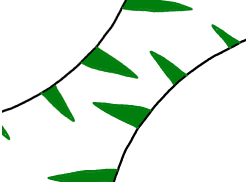
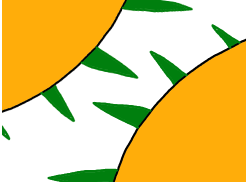
Balance changes and animation on Demons Roots

diff --git a/src/main/java/florademon/actions/DemonsRootsAction.java b/src/main/java/florademon/actions/DemonsRootsAction.java
@@ -1,0 +1,118 @@
+package florademon.actions;
+
+import basemod.ReflectionHacks;
+import basemod.helpers.VfxBuilder;
+import com.badlogic.gdx.graphics.Texture;
+import com.megacrit.cardcrawl.actions.AbstractGameAction;
+import com.megacrit.cardcrawl.actions.animations.VFXAction;
+import com.megacrit.cardcrawl.actions.common.DamageAllEnemiesAction;
+import com.megacrit.cardcrawl.cards.DamageInfo;
+import com.megacrit.cardcrawl.characters.AbstractPlayer;
+import com.megacrit.cardcrawl.dungeons.AbstractDungeon;
+import com.megacrit.cardcrawl.monsters.AbstractMonster;
+import com.megacrit.cardcrawl.vfx.AbstractGameEffect;
+import com.megacrit.cardcrawl.vfx.combat.CleaveEffect;
+import florademon.cards.DemonsRoots;
+import static florademon.FloraDemonMod.vfxPath;
+
+import java.util.ArrayList;
+import java.util.Collections;
+
+public class DemonsRootsAction extends AbstractGameAction {
+    AbstractPlayer p;
+    AbstractMonster m;
+    DemonsRoots thisCard;
+
+    public static ArrayList<Texture> attackSprites;
+
+    public static ArrayList<Texture> originSprites;
+
+    public DemonsRootsAction(DemonsRoots card, AbstractPlayer p, AbstractMonster m){
+        thisCard = card;
+        this.p = p;
+        this.m = m;
+    }
+    @Override
+    public void update() {
+        /*
+        addToBot(new DamageAllEnemiesAction(p, thisCard.multiDamage, DamageInfo.DamageType.NORMAL, AbstractGameAction.AttackEffect.SLASH_HORIZONTAL));
+        addToBot(new DamageAllEnemiesAction(p, thisCard.multiDamage, DamageInfo.DamageType.NORMAL, AbstractGameAction.AttackEffect.SLASH_VERTICAL));
+        addToBot(new DamageAllEnemiesAction(p, thisCard.multiDamage, DamageInfo.DamageType.NORMAL, AbstractGameAction.AttackEffect.SLASH_HEAVY));
+        if (thisCard.originRoots){
+            addToBot(new DamageAllEnemiesAction(p, thisCard.multiDamage, DamageInfo.DamageType.NORMAL, AbstractGameAction.AttackEffect.SLASH_HEAVY));
+        }
+        */
+
+        float[] coordinates = getAverageMonsterCoordinates();//TODO: Fix the jank as hell implementation here and make this an actual VFX
+        ArrayList<Texture> spritesToUse = attackSprites;
+        int attackInterval = 8;
+        if (thisCard.originRoots){
+            spritesToUse = originSprites;
+            attackInterval = 9;
+        }
+        for (int i = 0; i < spritesToUse.size(); i++){
+            Texture currentTexture = spritesToUse.get(i);
+            AbstractGameEffect currentEffect;
+            if (i%attackInterval == attackInterval-3) {
+                currentEffect = new VfxBuilder(currentTexture, coordinates[0], coordinates[1] + 100, 0.05f).playSoundAt(0F, "ATTACK_HEAVY").build();
+                DamageAllEnemiesAction damage = new DamageAllEnemiesAction(p, thisCard.multiDamage, DamageInfo.DamageType.NORMAL, AbstractGameAction.AttackEffect.NONE, true);
+                ReflectionHacks.setPrivate(damage, AbstractGameAction.class, "duration", 0);
+                addToTop(damage);
+            } else {
+                currentEffect = new VfxBuilder(currentTexture, coordinates[0], coordinates[1] + 100, 0.05f).build();
+            }
+            this.addToTop(new VFXAction(this.p, currentEffect, 0.0F));
+        }
+        this.isDone = true;
+    }
+
+    public static ArrayList<Texture> getAttackSprites(){
+        ArrayList<Texture> output = new ArrayList<Texture>();
+        for (int i = 0; i <= 22; i++){
+            String fileName = "DemonsRoots/tile0";
+            if (i < 10){
+                fileName += "0";
+            }
+            fileName += i + ".png";
+            output.add(new Texture(vfxPath(fileName)));
+        }
+        Collections.reverse(output);
+
+        return output;
+    }
+
+    public static ArrayList<Texture> getOriginSprites(){
+        ArrayList<Texture> output = new ArrayList<Texture>();
+        for (int i = 0; i <= 33; i++){
+            String fileName = "OriginRoots/tile0";
+            if (i < 10){
+                fileName += "0";
+            }
+            fileName += i + ".png";
+            output.add(new Texture(vfxPath(fileName)));
+        }
+        Collections.reverse(output);
+
+        return output;
+    }
+
+    public float[] getAverageMonsterCoordinates(){
+        float[] output = {0, 0};
+        for (AbstractMonster currentMonster : AbstractDungeon.getMonsters().monsters){
+            output[0] += currentMonster.drawX;
+            output[1] += currentMonster.drawY;
+        }
+        int numMonsters = AbstractDungeon.getMonsters().monsters.size();
+        if (numMonsters == 0){
+            return output;
+        }
+        output[0] /= numMonsters;
+        output[1] /= numMonsters;
+        return output;
+    }
+
+    static {
+        attackSprites = getAttackSprites();
+        originSprites = getOriginSprites();
+    }
+}

diff --git a/src/main/java/florademon/cards/DemonsRoots.java b/src/main/java/florademon/cards/DemonsRoots.java
@@ -12,6 +12,7 @@ import com.megacrit.cardcrawl.localization.CardStrings;
 import com.megacrit.cardcrawl.monsters.AbstractMonster;
 import com.megacrit.cardcrawl.powers.ThornsPower;
 import com.megacrit.cardcrawl.rooms.AbstractRoom;
+import florademon.actions.DemonsRootsAction;
 import florademon.character.FloraDemonCharacter;
 import florademon.powers.ApostleFormPower;
 import florademon.powers.LoseThornsPower;
@@ -33,7 +34,7 @@ public class DemonsRoots extends BaseCard {
 
     private static final CardStrings cardStrings;
 
-    private boolean originRoots;
+    public boolean originRoots;
 
     private static final CardStats info = new CardStats(
             FloraDemonCharacter.Enums.CARD_COLOR, //The card color. If you're making your own character, it'll look something like this. Otherwise, it'll be CardColor.RED or something similar for a basegame character color.
@@ -53,6 +54,7 @@ public class DemonsRoots extends BaseCard {
         if (CardCrawlGame.isInARun() && AbstractDungeon.player.hasPower(ApostleFormPower.POWER_ID) && AbstractDungeon.getCurrRoom().phase == AbstractRoom.RoomPhase.COMBAT){
             this.turnIntoOriginRoots();
         }
+        DemonsRootsAction preload = new DemonsRootsAction(this, null, null);
     }
 
     public void turnIntoOriginRoots(){
@@ -92,12 +94,7 @@ public class DemonsRoots extends BaseCard {
 
     @Override
     public void use(AbstractPlayer p, AbstractMonster m) {
-        addToBot(new DamageAllEnemiesAction(p, this.multiDamage, DamageInfo.DamageType.NORMAL, AbstractGameAction.AttackEffect.SLASH_HORIZONTAL));
-        addToBot(new DamageAllEnemiesAction(p, this.multiDamage, DamageInfo.DamageType.NORMAL, AbstractGameAction.AttackEffect.SLASH_VERTICAL));
-        addToBot(new DamageAllEnemiesAction(p, this.multiDamage, DamageInfo.DamageType.NORMAL, AbstractGameAction.AttackEffect.SLASH_HEAVY));
-        if (originRoots){
-            addToBot(new DamageAllEnemiesAction(p, this.multiDamage, DamageInfo.DamageType.NORMAL, AbstractGameAction.AttackEffect.SLASH_HEAVY));
-        }
+        addToTop(new DemonsRootsAction(this, p, m));
     }
 
     static {

diff --git a/src/main/java/florademon/cards/SeedsOfTheFuture.java b/src/main/java/florademon/cards/SeedsOfTheFuture.java
@@ -1,6 +1,7 @@
 package florademon.cards;
 
 import basemod.patches.com.megacrit.cardcrawl.cards.AbstractCard.MultiCardPreview;
+import com.megacrit.cardcrawl.actions.common.MakeTempCardInDiscardAction;
 import com.megacrit.cardcrawl.actions.common.MakeTempCardInDrawPileAction;
 import com.megacrit.cardcrawl.actions.watcher.ChooseOneAction;
 import com.megacrit.cardcrawl.cards.AbstractCard;
@@ -30,7 +31,7 @@ public class SeedsOfTheFuture extends BaseCard {
             CardType.SKILL, //The type. ATTACK/SKILL/POWER/CURSE/STATUS
             CardRarity.RARE, //Rarity. BASIC is for starting cards, then there's COMMON/UNCOMMON/RARE, and then SPECIAL and CURSE. SPECIAL is for cards you only get from events. Curse is for curses, except for special curses like Curse of the Bell and Necronomicurse.
             CardTarget.SELF, //The target. Single target is ENEMY, all enemies is ALL_ENEMY. Look at cards similar to what you want to see what to use.
-            1 //The card's base cost. -1 is X cost, -2 is no cost for unplayable cards like curses, or Reflex.
+            2 //The card's base cost. -1 is X cost, -2 is no cost for unplayable cards like curses, or Reflex.
     );
 
     public SeedsOfTheFuture() {
@@ -45,7 +46,7 @@ public class SeedsOfTheFuture extends BaseCard {
         Consumer<AbstractCard> callBack = (c) -> {
             ArrayList<AbstractCard> seedsToShuffle = getSeeds(c);
             seedsToShuffle.forEach((thisSeed) -> {
-                this.addToBot(new MakeTempCardInDrawPileAction(thisSeed, 1, true, true));
+                this.addToBot(new MakeTempCardInDiscardAction(thisSeed, 1));
             });
         };
         addToBot(new FlexibleDiscoveryAction(seedChoices,callBack, false));

diff --git a/src/main/java/florademon/cards/Gardenwork.java b/src/main/java/florademon/cards/Gardenwork.java
@@ -1,5 +1,6 @@
 package florademon.cards;
 
+import com.megacrit.cardcrawl.actions.defect.ChannelAction;
 import com.megacrit.cardcrawl.actions.watcher.ChooseOneAction;
 import com.megacrit.cardcrawl.cards.AbstractCard;
 import com.megacrit.cardcrawl.characters.AbstractPlayer;
@@ -10,6 +11,8 @@ import florademon.cards.special.GrowIvy;
 import florademon.cards.special.GrowLily;
 import florademon.cards.special.GrowThistle;
 import florademon.character.FloraDemonCharacter;
+import florademon.orbs.BladedLily;
+import florademon.orbs.HardyDandelion;
 import florademon.util.CardStats;
 
 import java.util.ArrayList;
@@ -46,15 +49,8 @@ public class Gardenwork extends BaseCard {
 
     @Override
     public void use(AbstractPlayer p, AbstractMonster m) {
-        ArrayList<AbstractCard> plantChoices;
-        for (int i = 0; i < magicNumber; i++){
-            plantChoices = new ArrayList<AbstractCard>();
-            plantChoices.add(new GrowLily());
-            plantChoices.add(new GrowDandelion());
-            plantChoices.add(new GrowIvy());
-            plantChoices.add(new GrowThistle());
-            addToBot(new ChooseOneAction(plantChoices));
-        }
+        addToBot(new ChannelAction(new HardyDandelion()));
+        addToBot(new ChannelAction(new BladedLily()));
         addToBot(new BloomAction());
     }
 }

diff --git a/src/main/java/florademon/cards/SnowMoonFlowers.java b/src/main/java/florademon/cards/SnowMoonFlowers.java
@@ -17,8 +17,8 @@ import florademon.util.CardStats;
 public class SnowMoonFlowers extends BaseCard {
     public static final String ID = makeID(SnowMoonFlowers.class.getSimpleName());
 
-    private static final int DAMAGE = 10;
-    private static final int UPG_DAMAGE = 0;
+    private static final int DAMAGE = 9;
+    private static final int UPG_DAMAGE = 4;
     private static final int BLOCK = 5;
     private static final int UPG_BLOCK = 2;
     private static final int MAGIC = 99;
@@ -37,13 +37,12 @@ public class SnowMoonFlowers extends BaseCard {
         this.isMultiDamage = true;
         setDamage(DAMAGE, UPG_DAMAGE); //Sets the card's damage and how much it changes when upgraded.
         setMagic(MAGIC,UPG_MAGIC);
-        setCostUpgrade(1);
         this.exhaust = true;
     }
 
     @Override
     public float getTitleFontSize() {
-        return 17F;
+        return 16F;
     }
 
     @Override

diff --git a/src/main/java/florademon/orbs/ProteaOfPlenty.java b/src/main/java/florademon/orbs/ProteaOfPlenty.java
@@ -1,10 +1,13 @@
 package florademon.orbs;
 
+import basemod.helpers.VfxBuilder;
+import com.badlogic.gdx.graphics.Color;
 import com.megacrit.cardcrawl.actions.common.ApplyPowerAction;
 import com.megacrit.cardcrawl.actions.common.DrawCardAction;
 import com.megacrit.cardcrawl.characters.AbstractPlayer;
 import com.megacrit.cardcrawl.core.CardCrawlGame;
 import com.megacrit.cardcrawl.dungeons.AbstractDungeon;
+import com.megacrit.cardcrawl.helpers.ImageMaster;
 import com.megacrit.cardcrawl.localization.OrbStrings;
 import com.megacrit.cardcrawl.orbs.AbstractOrb;
 import com.megacrit.cardcrawl.powers.AbstractPower;
@@ -45,7 +48,6 @@ public class ProteaOfPlenty extends PlantOrb{
         AbstractDungeon.actionManager.addToTop(new DrawCardAction(DRAW));
         applyFocus();
         updateDescription();
-
     }
     public void applyFocus(){
         passiveAmount = Math.max(0, basePassiveAmount );

diff --git a/src/main/java/florademon/cards/Subjugate.java b/src/main/java/florademon/cards/Subjugate.java
@@ -16,12 +16,12 @@ import florademon.util.CardStats;
 public class Subjugate extends BaseCard {
     public static final String ID = makeID(Subjugate.class.getSimpleName());
 
-    private static final int DAMAGE = 18;
+    private static final int DAMAGE = 15;
     private static final int UPG_DAMAGE = 4;
     private static final int BLOCK = 5;
     private static final int UPG_BLOCK = 2;
-    private static final int MAGIC = 3;
-    private static final int UPG_MAGIC = 2;
+    private static final int MAGIC = 2;
+    private static final int UPG_MAGIC = 1;
 
     private static final CardStats info = new CardStats(
             FloraDemonCharacter.Enums.CARD_COLOR, //The card color. If you're making your own character, it'll look something like this. Otherwise, it'll be CardColor.RED or something similar for a basegame character color.

diff --git a/src/main/java/florademon/cards/ParalyticPoison.java b/src/main/java/florademon/cards/ParalyticPoison.java
@@ -17,7 +17,7 @@ public class ParalyticPoison extends BaseCard {
     private static final int BLOCK = 5;
     private static final int UPG_BLOCK = 2;
     private static final int MAGIC = 1;
-    private static final int UPG_MAGIC = 1;
+    private static final int UPG_MAGIC = 0;
 
     private static final CardStats info = new CardStats(
             FloraDemonCharacter.Enums.CARD_COLOR, //The card color. If you're making your own character, it'll look something like this. Otherwise, it'll be CardColor.RED or something similar for a basegame character color.
@@ -30,6 +30,7 @@ public class ParalyticPoison extends BaseCard {
     public ParalyticPoison() {
         super(ID, info);
         setMagic(MAGIC, UPG_MAGIC);
+        setInnate(false, true);
     }
 
 

diff --git a/src/main/java/florademon/powers/CarnivorousPlantsPower.java b/src/main/java/florademon/powers/CarnivorousPlantsPower.java
@@ -35,8 +35,7 @@ public class CarnivorousPlantsPower extends BasePower implements CloneablePowerI
         AbstractPlayer p = (AbstractPlayer) owner;
         p.orbs.forEach((currentOrb) -> {
             if (currentOrb instanceof PlantOrb){
-                addToTop(new WaitAction(0.1F));
-                addToTop(new GainBlockAction(p, p, amount));
+                addToTop(new GainBlockAction(p, p, amount,true));
                 addToTop(new DamageRandomEnemyAction(new DamageInfo(p, amount, DamageInfo.DamageType.THORNS), AbstractGameAction.AttackEffect.BLUNT_LIGHT));
             }
 

diff --git a/src/main/java/florademon/cards/ApostleForm.java b/src/main/java/florademon/cards/ApostleForm.java
@@ -26,7 +26,7 @@ public class ApostleForm extends BaseCard {
     private static final int BLOCK = 5;
     private static final int UPG_BLOCK = 2;
     private static final int MAGIC = 1;
-    private static final int UPG_MAGIC = 1;
+    private static final int UPG_MAGIC = 0;
 
     private static final CardStrings cardStrings;
 
@@ -45,6 +45,7 @@ public class ApostleForm extends BaseCard {
         if (!enableSpoilers){
             censorSpoilers();
         }
+        setEthereal(true, false);
     }
 
     public void censorSpoilers(){

diff --git a/src/main/java/florademon/actions/BloomAction.java b/src/main/java/florademon/actions/BloomAction.java
@@ -53,10 +53,9 @@ public class BloomAction extends AbstractGameAction {
             reverseOrbs.forEach((currentOrb) -> {
                 if (currentOrb instanceof PlantOrb) {
                     addToTop(new ActivatePlantAction((PlantOrb) currentOrb));
-                    addToTop(new WaitAction(0.1F));
                 }
             });
-            addToTop(new WaitAction(0.2F));
+            addToTop(new WaitAction(0.1F));
         }
         this.isDone = true;
     }

diff --git a/src/main/java/florademon/FloraDemonMod.java b/src/main/java/florademon/FloraDemonMod.java
@@ -254,6 +254,9 @@ public class FloraDemonMod implements
     public static String characterPath(String file) {
         return resourcesFolder + "/images/character/" + file;
     }
+    public static String vfxPath(String file) {
+        return resourcesFolder + "/images/vfx/" + file;
+    }
     public static String cardPath(String file) {
         return resourcesFolder + "/images/cards/" + file;
     }
